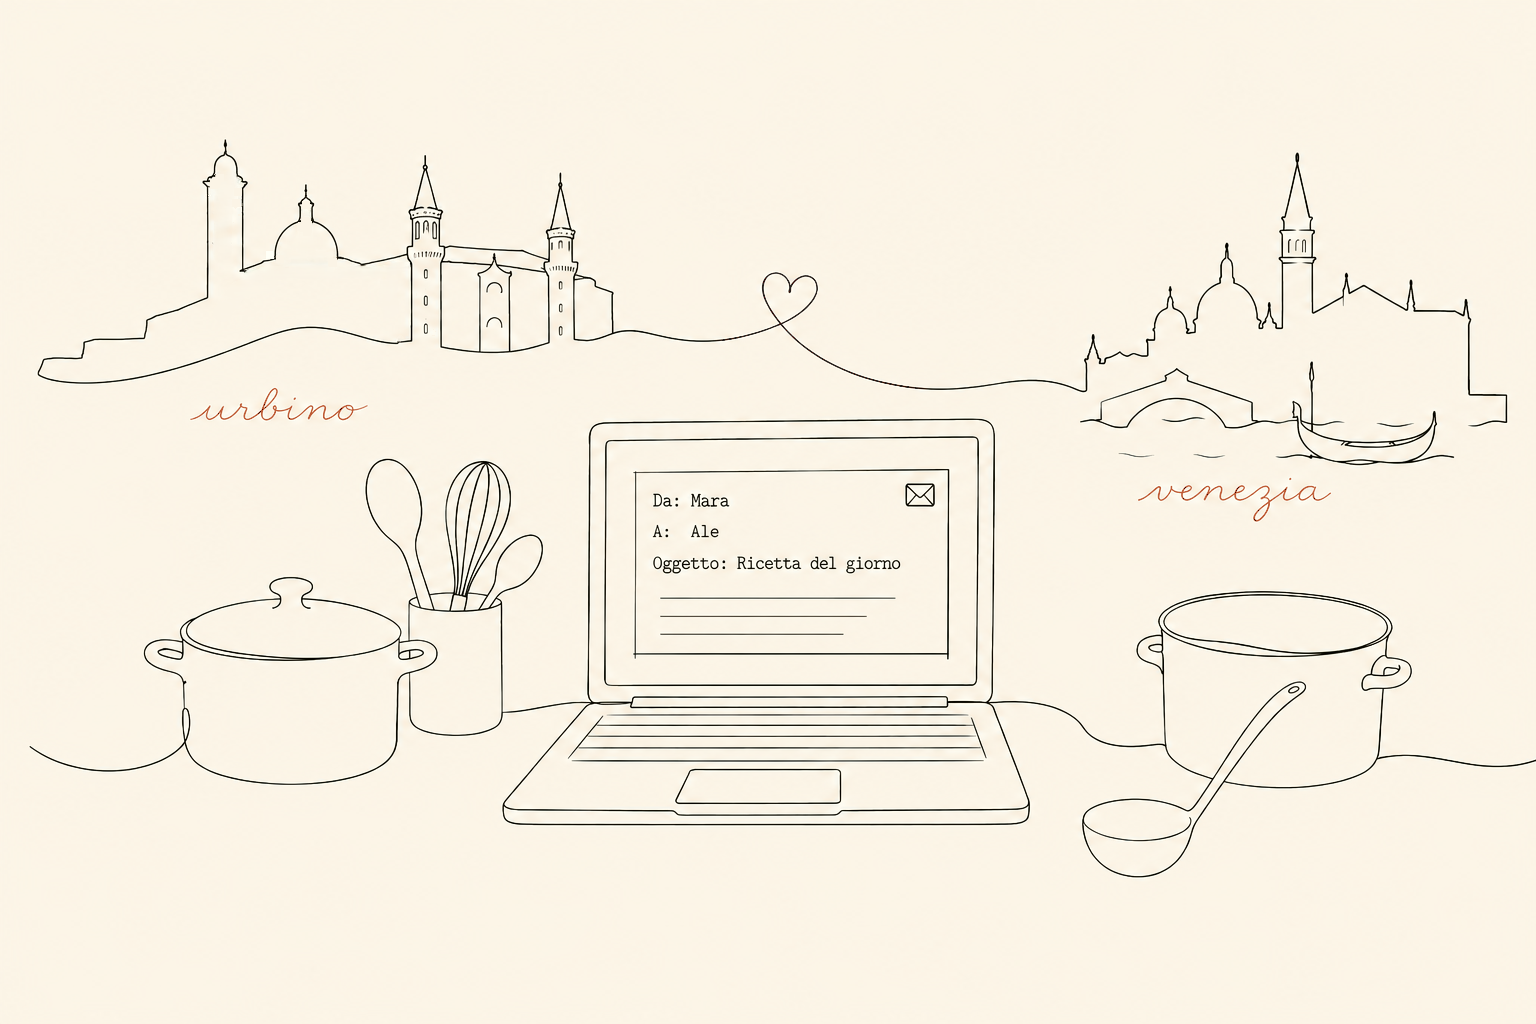
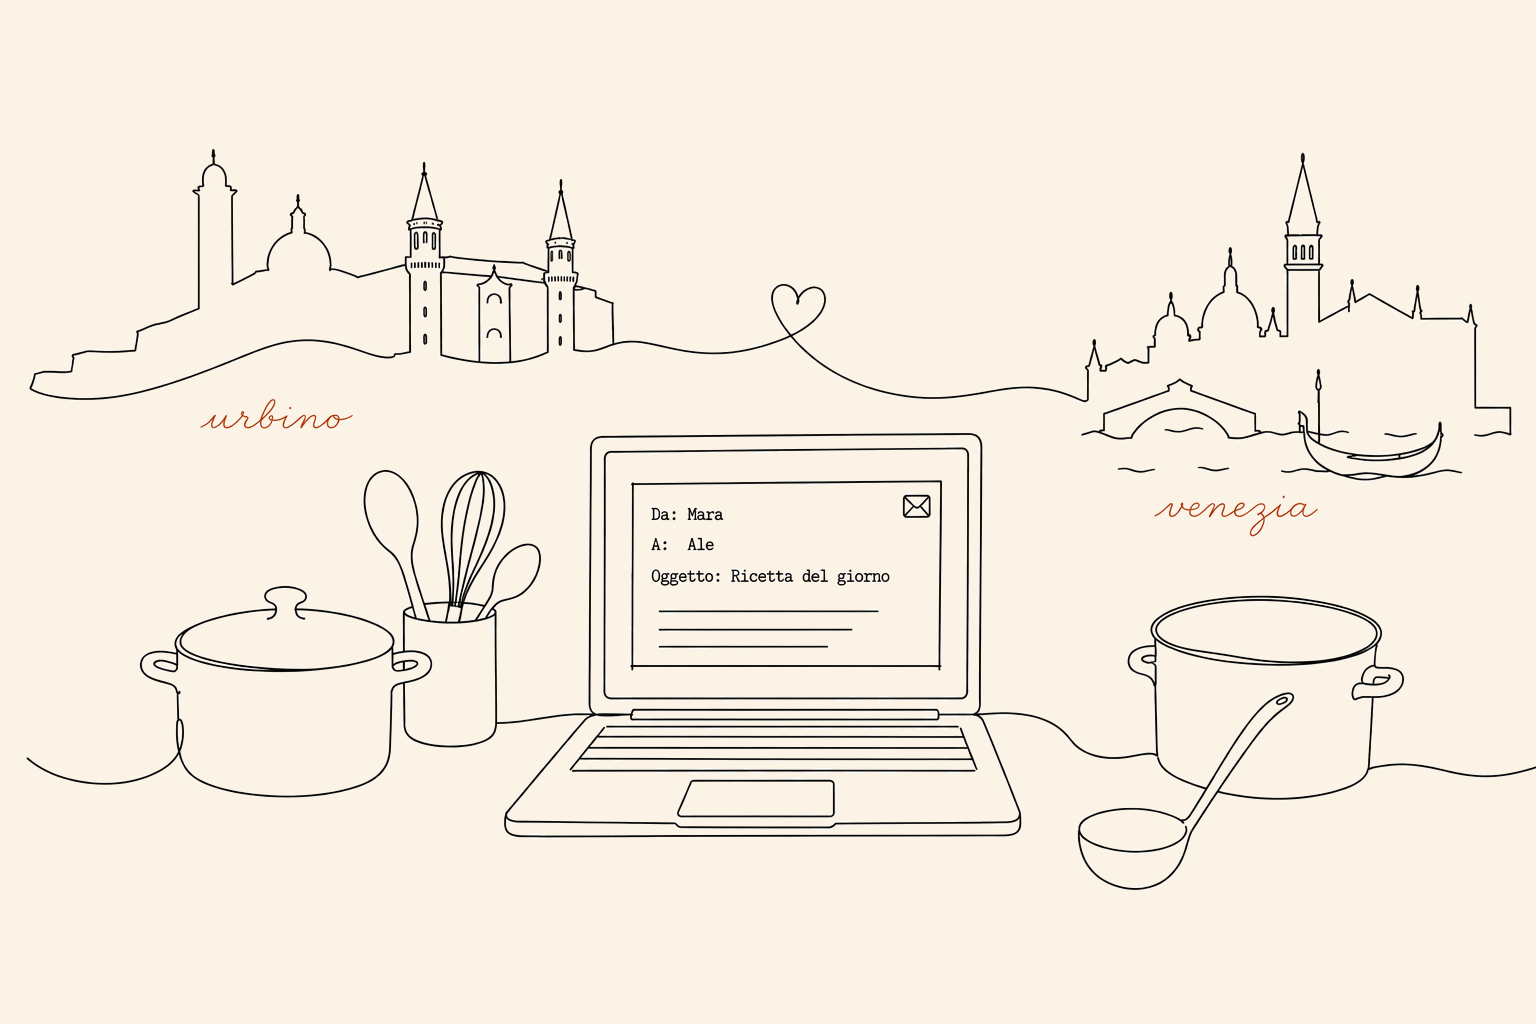
sistemate immagini

diff --git a/index.dc.html b/index.dc.html
@@ -75,7 +75,7 @@
 
   <!-- hero illustration -->
   <div style="padding:clamp(12px,2vw,24px) clamp(20px,4vw,52px) clamp(24px,4vw,40px); text-align:center;">
-    <img src="assets/hero-index.png" alt="Illustrazione a tratto: Urbino e Venezia unite da un cuore, un portatile con una mail di Mara e strumenti di cucina" style="display:block; width:100%; max-width:600px; height:auto; margin:0 auto;">
+    <img src="assets/hero-index.png" alt="Illustrazione a tratto: Urbino e Venezia unite da un cuore, un portatile con una mail di Mara e strumenti di cucina" style="display:block; width:100%; max-width:760px; height:auto; margin:0 auto;">
   </div>
 
   <!-- dated notes -->
